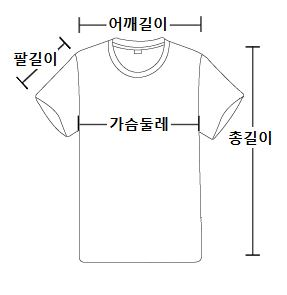
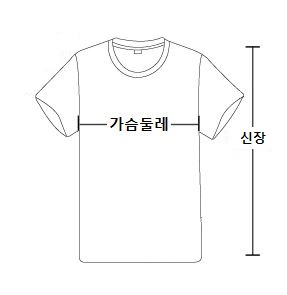
front: sizechart css

diff --git a/shopping_front/src/components/dress/createDress.vue b/shopping_front/src/components/dress/createDress.vue
@@ -152,7 +152,9 @@
 					<a @click="size_chart = true">
 						<i class="mdi mdi-chart-bar" />size_chart / color
 					</a>
-					<span style="color: red; float: right;"
+					<span
+						v-if="dressDto.dsize.length == 0"
+						style="color: red; float: right;"
 						>! 사이즈 정보를 입력하세요</span
 					>
 				</span>
@@ -175,8 +177,11 @@
 									<i class="mdi mdi-close"
 								/></v-btn>
 							</v-card-title>
-							<v-card-text style="height: 500px;">
-								<div class="content_row">
+							<v-card-text>
+								<div
+									class="content_row"
+									style="margin-bottom: 30px;"
+								>
 									<v-checkbox
 										v-for="(s, idx) in sizes"
 										:key="idx"
@@ -185,13 +190,7 @@
 										class="hj_check"
 									/>
 								</div>
-								<div
-									class="content_row"
-									style="
-										outline: 1px black solid;
-										height: 407px;
-									"
-								>
+								<div class="content_row">
 									<div class="table_wrap">
 										<table class="size_chart">
 											<thead>
@@ -243,6 +242,8 @@
 									<v-img
 										src="../../assets/sizeinfo.jpg"
 										contain
+										height="300"
+										width="250"
 										style="outline: black 1px solid;"
 									/>
 								</div>

diff --git a/shopping_front/src/css/dress/dressDetail.css b/shopping_front/src/css/dress/dressDetail.css
@@ -98,7 +98,6 @@ table, th, td{
 }
 
 .table_wrap{
-	outline: 1px black solid;
 	width: 100%;
 	margin-right: 40px
 }

diff --git a/shopping_back/src/main/java/shopping/back/hj/dress/DressDto.java b/shopping_back/src/main/java/shopping/back/hj/dress/DressDto.java
@@ -33,6 +33,7 @@ public class DressDto {
 		private String name;
 		
 		@NotNull
+		@Enumerated(EnumType.STRING)
 		private DressColor color;
 		
 		// 품번

diff --git a/shopping_back/src/main/java/shopping/back/hj/dress/Dress.java b/shopping_back/src/main/java/shopping/back/hj/dress/Dress.java
@@ -44,6 +44,7 @@ public class Dress {
 	private String brand;
 	
 	//색깔
+	@Enumerated(EnumType.STRING)
 	private DressColor color;
 
 	// 품번
